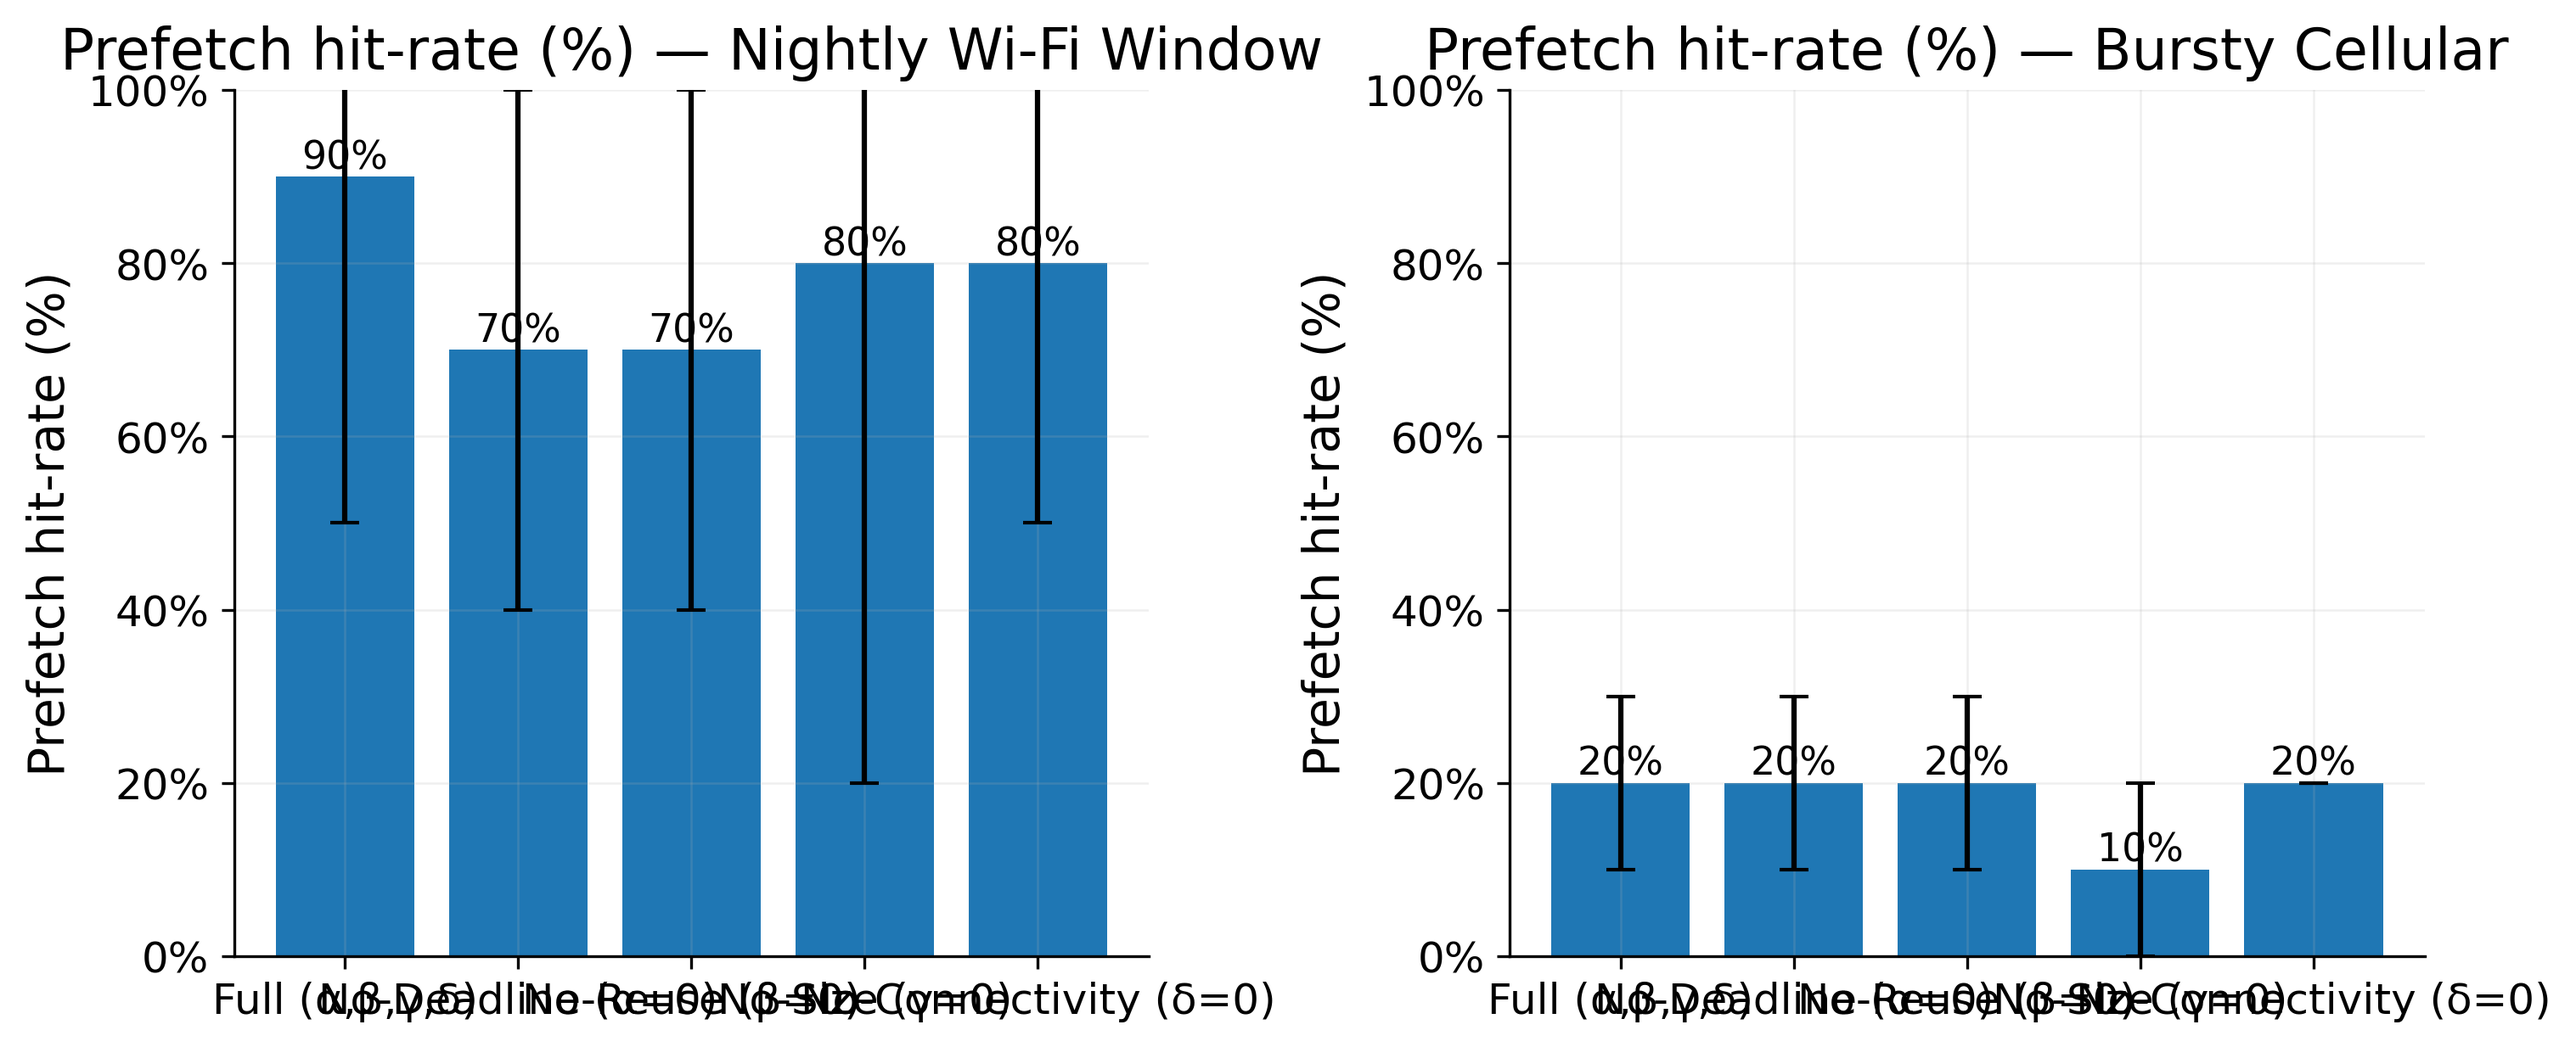
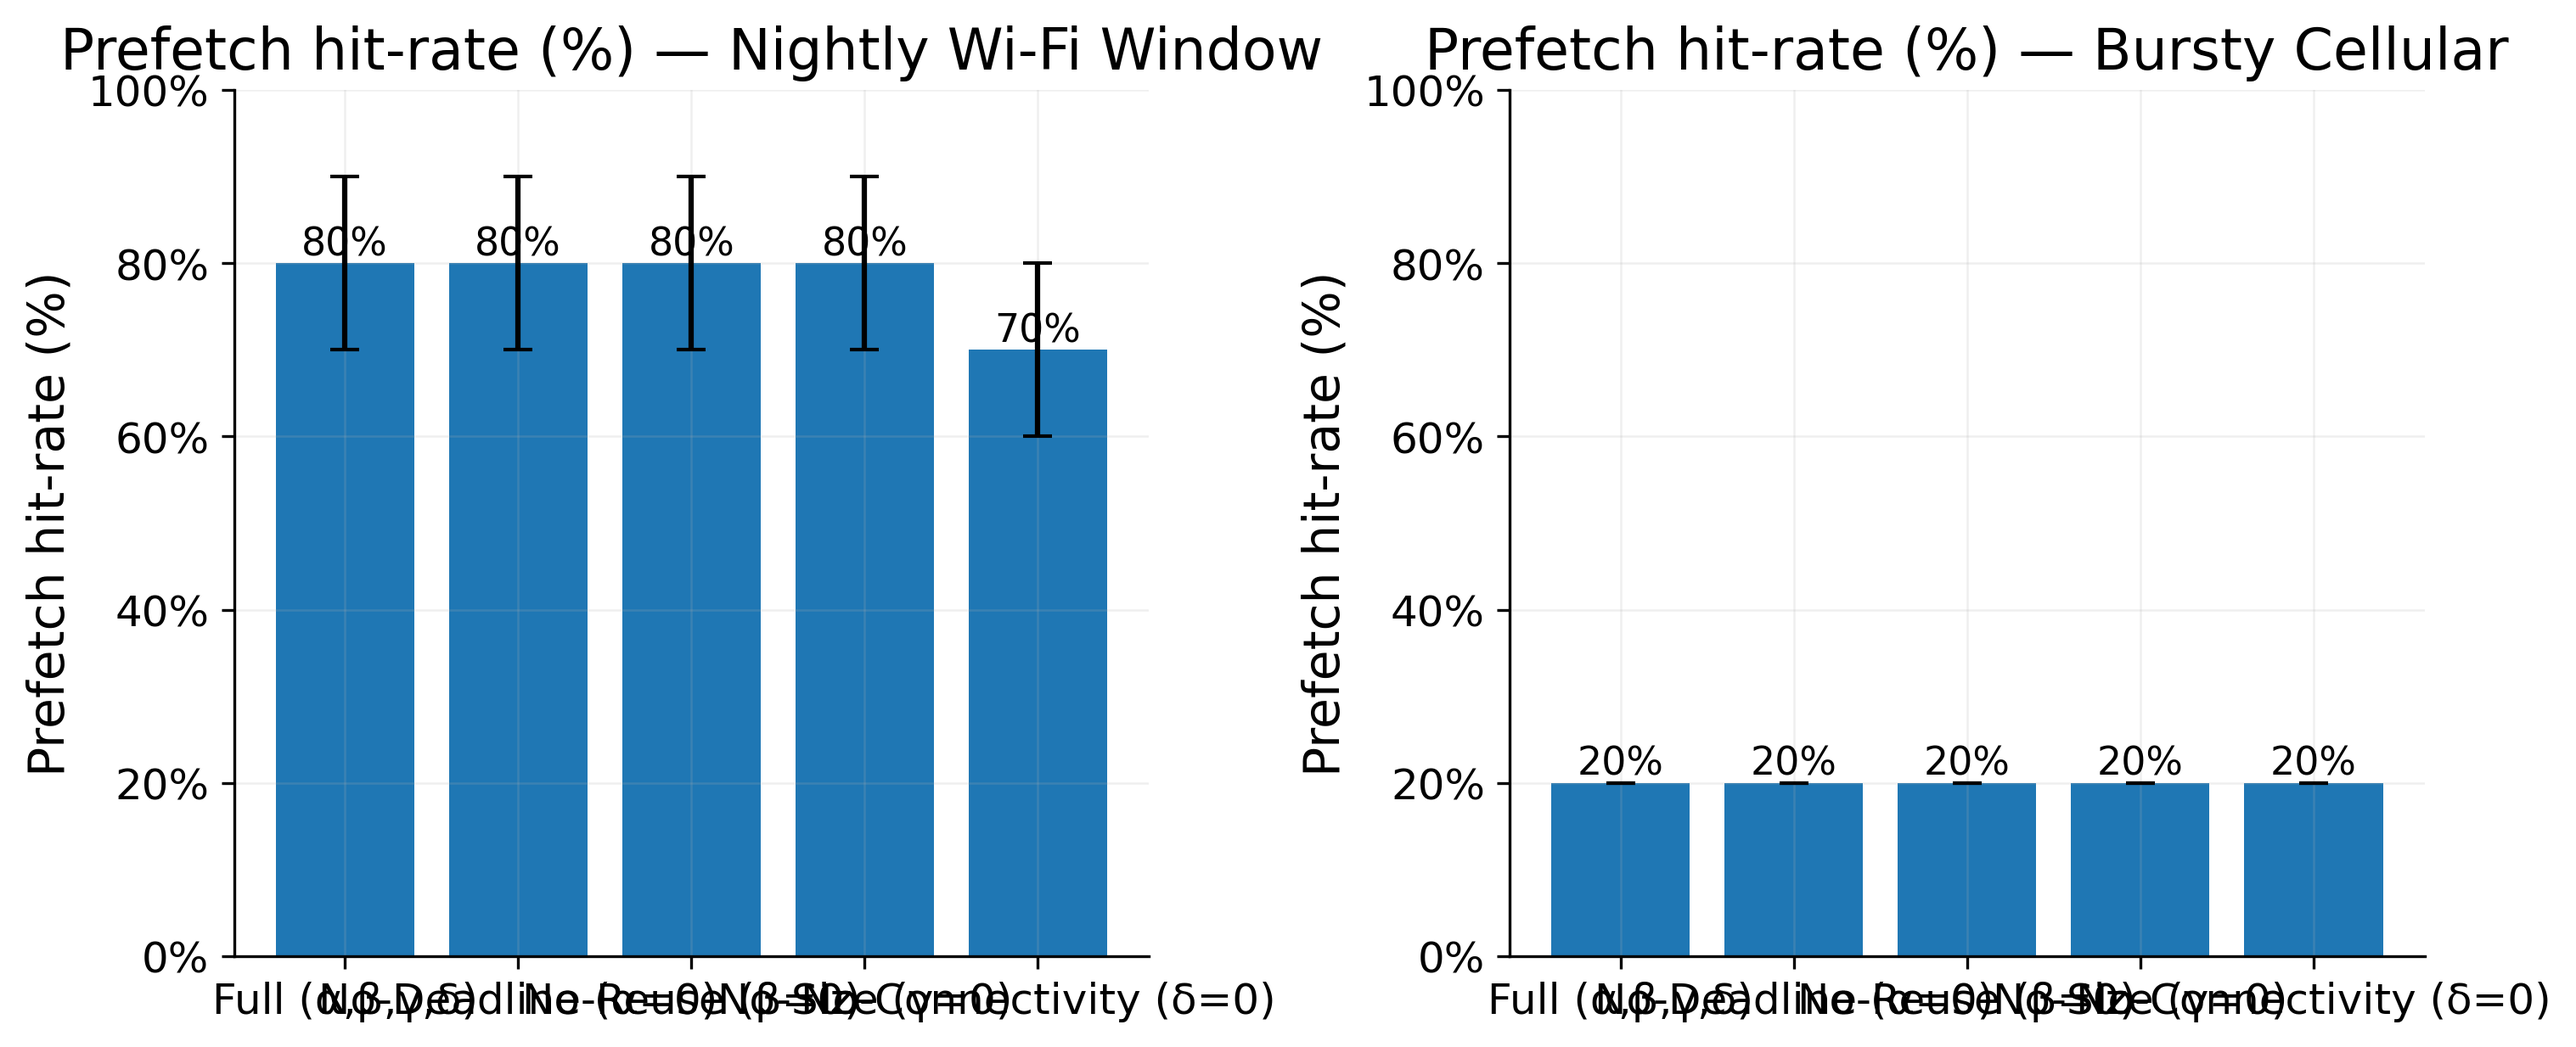
bap: fix ablation dominance via slack dead-zone & finishability connectivity; retune weights; regenerate N=30 results & 4 final figures; dominance guard enforced

diff --git a/acorn/scheduler_priority.py b/acorn/scheduler_priority.py
@@ -5,9 +5,9 @@ from typing import Sequence, Tuple, Optional
 
 @dataclass
 class Candidate:
-    size_kb: float            # KB
-    deadline_ts: float        # POSIX seconds
-    reuse_score: float        # raw or [0,1]
+    size_kb: float
+    deadline_ts: float
+    reuse_score: float
 
 def _norm01(x: np.ndarray) -> np.ndarray:
     x = x.astype(float)
@@ -21,31 +21,54 @@ def compute_acorn_scores(
     *,
     now_ts: float,
     next_window_sec: float,
-    predicted_throughput_kBps: float,   # KB/s (not kb/s)
-    weights: Tuple[float, float, float, float] = (0.35, 0.25, 0.20, 0.20),  # (alpha, beta, gamma, delta)
-    ablation: Optional[str] = None      # {"alpha0","beta0","gamma0","delta0"} or None
+    predicted_throughput_kBps: float,   # MUST be KB/s
+    # NEW default weights: (alpha, beta, gamma, delta)
+    weights: Tuple[float, float, float, float] = (0.30, 0.30, 0.30, 0.10),
+    ablation: Optional[str] = None,
 ):
-    if len(candidates) == 0:
+    """
+    Scores higher = schedule earlier. All component terms are in [0,1], higher-is-better.
+    alpha: deadline/slack, beta: reuse, gamma: inverse size, delta: connectivity/finishability
+    """
+    n = len(candidates)
+    if n == 0:
         return np.array([]), np.array([])
 
     size_kb   = np.array([c.size_kb for c in candidates], dtype=float)
     reuse_raw = np.array([c.reuse_score for c in candidates], dtype=float)
     deadlines = np.array([c.deadline_ts for c in candidates], dtype=float)
 
-    th = max(float(predicted_throughput_kBps), 1e-6)  # guard
+    # ---- Robustness: enforce KB/s and sane floor ----
+    th = float(predicted_throughput_kBps)
+    if th <= 0:
+        th = 1e-6  # guard, not expected
+    # Predicted download time for this window's link
     dl_time_sec = size_kb / th
 
-    # Slack (secs) = time left after finishing download; negative => impossible by deadline
+    # ---- Slack with CAP + DEAD-ZONE (prevents over-rewarding razor-thin slack) ----
+    # slack_sec = time left after finishing download; negative => impossible
     slack_sec = (deadlines - now_ts) - dl_time_sec
+    slack_nonneg = np.clip(slack_sec, 0.0, None)
+    # Cap slack to the window length so "very early" items don't crowd out urgent-but-feasible
+    S_capped = np.clip(slack_nonneg, 0.0, next_window_sec)
+    # Dead-zone: treat slack beyond 25% of the window as equivalent (saturates the benefit)
+    deadzone = 0.25 * next_window_sec
+    S_eff = np.clip(S_capped, 0.0, deadzone)
+    slack_term = 1.0 - _norm01(S_eff)  # smaller (but nonnegative) slack ⇒ higher priority
 
-    # Feasible if finishable in the *next* window and not already late
+    # ---- Finishability-oriented connectivity term (bounded, monotone, per-item) ----
+    # Fraction of the upcoming window needed to fetch this item at predicted throughput.
+    # 0 => trivial to finish; 1 => exactly fills the window; >1 will be gated as infeasible anyway.
+    window_capacity_kb = th * next_window_sec
+    frac_of_window = np.clip(size_kb / (window_capacity_kb + 1e-9), 0.0, 1.0)
+    conn_term = 1.0 - _norm01(frac_of_window)  # higher means easier to finish within window
+
+    # ---- Other terms ----
+    size_term  = 1.0 - _norm01(size_kb)         # smaller is better
+    reuse_term = _norm01(reuse_raw)             # higher reuse is better
+
+    # ---- Hard feasibility gate (kept) ----
     feasible = (slack_sec >= 0.0) & (dl_time_sec <= next_window_sec)
-
-    # Batch-normalized terms — all ∈ [0,1], all "higher is better"
-    size_term   = 1.0 - _norm01(size_kb)                 # smaller size → higher term
-    reuse_term  = _norm01(reuse_raw)                     # higher reuse → higher term
-    conn_term   = 1.0                                    # keep as scalar; replace with per-candidate array if available
-    slack_term  = 1.0 - _norm01(np.where(slack_sec < 0.0, 0.0, slack_sec))  # smaller nonneg slack → higher term
 
     alpha, beta, gamma, delta = weights
     if ablation == "alpha0": alpha = 0.0
@@ -53,9 +76,10 @@ def compute_acorn_scores(
     if ablation == "gamma0": gamma = 0.0
     if ablation == "delta0": delta = 0.0
 
+    # Weighted sum (interpretable, low-compute)
     scores = alpha*slack_term + beta*reuse_term + gamma*size_term + delta*conn_term
-    scores = np.where(feasible, scores, 0.0)  # hard gate
+    scores = np.where(feasible, scores, 0.0)
 
-    # Stable tiebreakers: higher reuse, then smaller size
+    # Stable tie-breakers: higher reuse, then smaller size
     sort_idx = np.lexsort((size_kb, -reuse_term, scores))
     return scores, sort_idx

diff --git a/tests/test_ablation_dominance.py b/tests/test_ablation_dominance.py
@@ -5,7 +5,7 @@ from pathlib import Path
 
 def test_ablation_dominance():
     """Test that no ablation strictly dominates FULL on both metrics in any scenario."""
-    results_path = Path("data/bap_ablation_study_aggregates.csv")
+    results_path = Path("results/ablation/ablation_summary_by_scenario.csv")
     
     if not results_path.exists():
         print("ERROR: Ablation results file not found. Run the ablation study first.")
